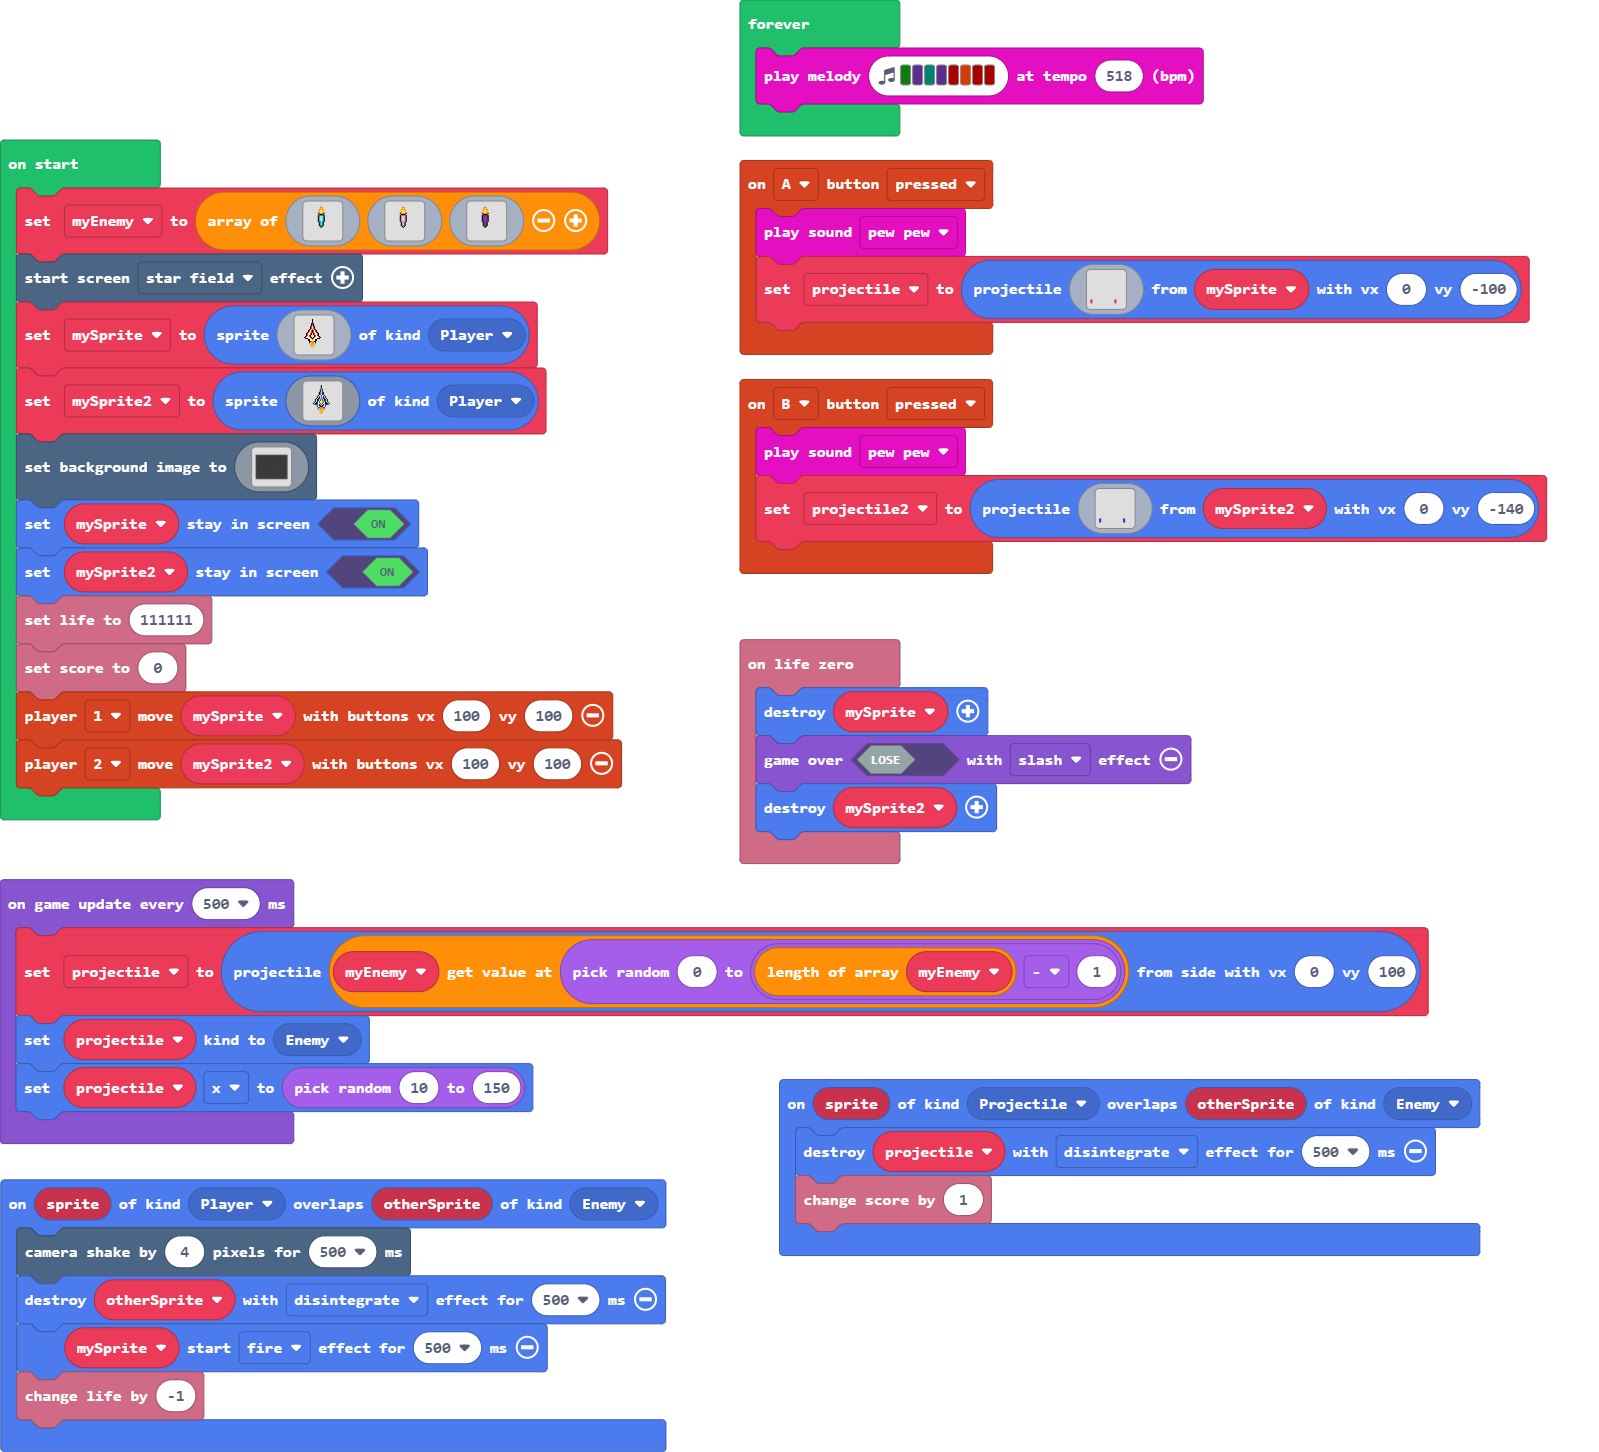
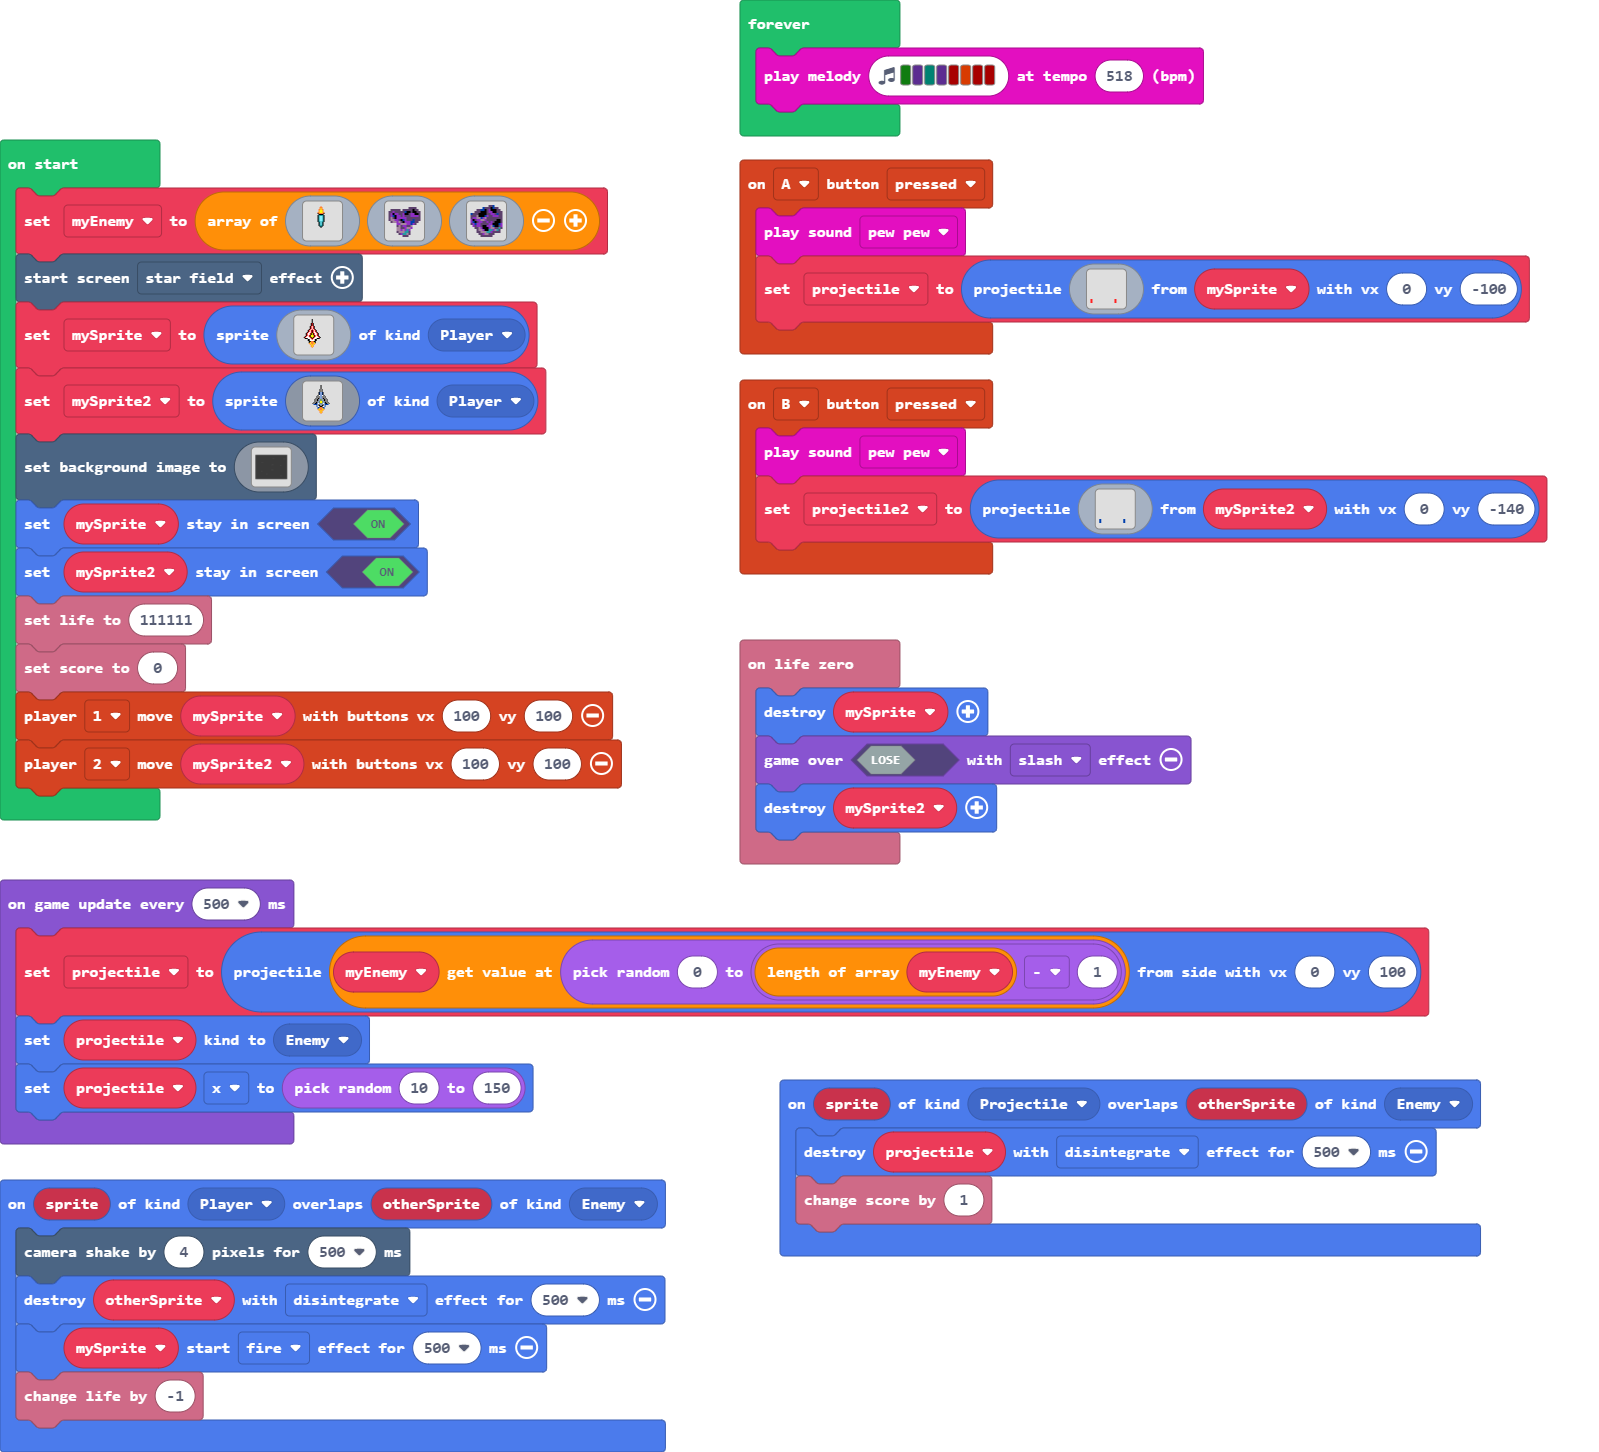
Update main.blocks, main.ts

diff --git a/main.ts b/main.ts
@@ -97,71 +97,39 @@ let myEnemy = [img`
     ................................
     ................................
     `, img`
-    ................................
-    ..............4.................
-    .............444................
-    .............454................
-    ............44544...............
-    ............45554...............
-    ............45554...............
-    ...........4455544..............
-    ...........f44444f..............
-    ............fffff...............
-    ...........fbbbbbf..............
-    ...........fbdddbf..............
-    ...........fbdddbf..............
-    ...........fbdddbf..............
-    ...........fbdddbf..............
-    ...........fbdddbf..............
-    ...........fbbdbbf..............
-    ............fbdbf...............
-    ............fbdbf...............
-    ............fbdbf...............
-    ............fbbbf...............
-    .............fbf................
-    ..............f.................
-    ................................
-    ................................
-    ................................
-    ................................
-    ................................
-    ................................
-    ................................
-    ................................
-    ................................
+    . . . . . . . . . . . . . . . . 
+    . . . . . . . . . . c c c c . . 
+    . c c c c c . c c c c c f c c . 
+    c c a c c c c c 8 f f c f f c c 
+    c a f a a c c a f f c a a f f c 
+    c a 8 f a a c a c c c a a a a c 
+    c b c f a a a a a c c c c c c c 
+    c b b a a c f 8 a c c c 8 c c c 
+    . c b b a b c f a a a 8 8 c c . 
+    . . . . a a b b b a a 8 a c . . 
+    . . . . c b c a a c c b . . . . 
+    . . . . b b c c a b b a . . . . 
+    . . . . b b a b a 6 a . . . . . 
+    . . . . c b b b 6 6 c . . . . . 
+    . . . . . c a 6 6 b c . . . . . 
+    . . . . . . . c c c . . . . . . 
     `, img`
-    ................................
-    ..............4.................
-    .............444................
-    .............454................
-    ............44544...............
-    ............45554...............
-    ............45554...............
-    ...........4455544..............
-    ...........f44444f..............
-    ............fffff...............
-    ...........fcccccf..............
-    ...........fcaaacf..............
-    ...........fcaaacf..............
-    ...........fcaaacf..............
-    ...........fcaaacf..............
-    ...........fcaaacf..............
-    ...........fccaccf..............
-    ............fcacf...............
-    ............fcacf...............
-    ............fcacf...............
-    ............fcccf...............
-    .............fcf................
-    ..............f.................
-    ................................
-    ................................
-    ................................
-    ................................
-    ................................
-    ................................
-    ................................
-    ................................
-    ................................
+    . . . . . . . . . c c 8 . . . . 
+    . . . . . . 8 c c c f 8 c c . . 
+    . . . c c 8 8 f c a f f f c c . 
+    . . c c c f f f c a a f f c c c 
+    8 c c c f f f f c c a a c 8 c c 
+    c c c b f f f 8 a c c a a a c c 
+    c a a b b 8 a b c c c c c c c c 
+    a f c a a b b a c c c c c f f c 
+    a 8 f c a a c c a c a c f f f c 
+    c a 8 a a c c c c a a f f f 8 a 
+    . a c a a c f f a a b 8 f f c a 
+    . . c c b a f f f a b b c c 6 c 
+    . . . c b b a f f 6 6 a b 6 c . 
+    . . . c c b b b 6 6 a c c c c . 
+    . . . . c c a b b c c c . . . . 
+    . . . . . c c c c c c . . . . . 
     `]
 effects.starField.startScreenEffect()
 mySprite = sprites.create(img`
